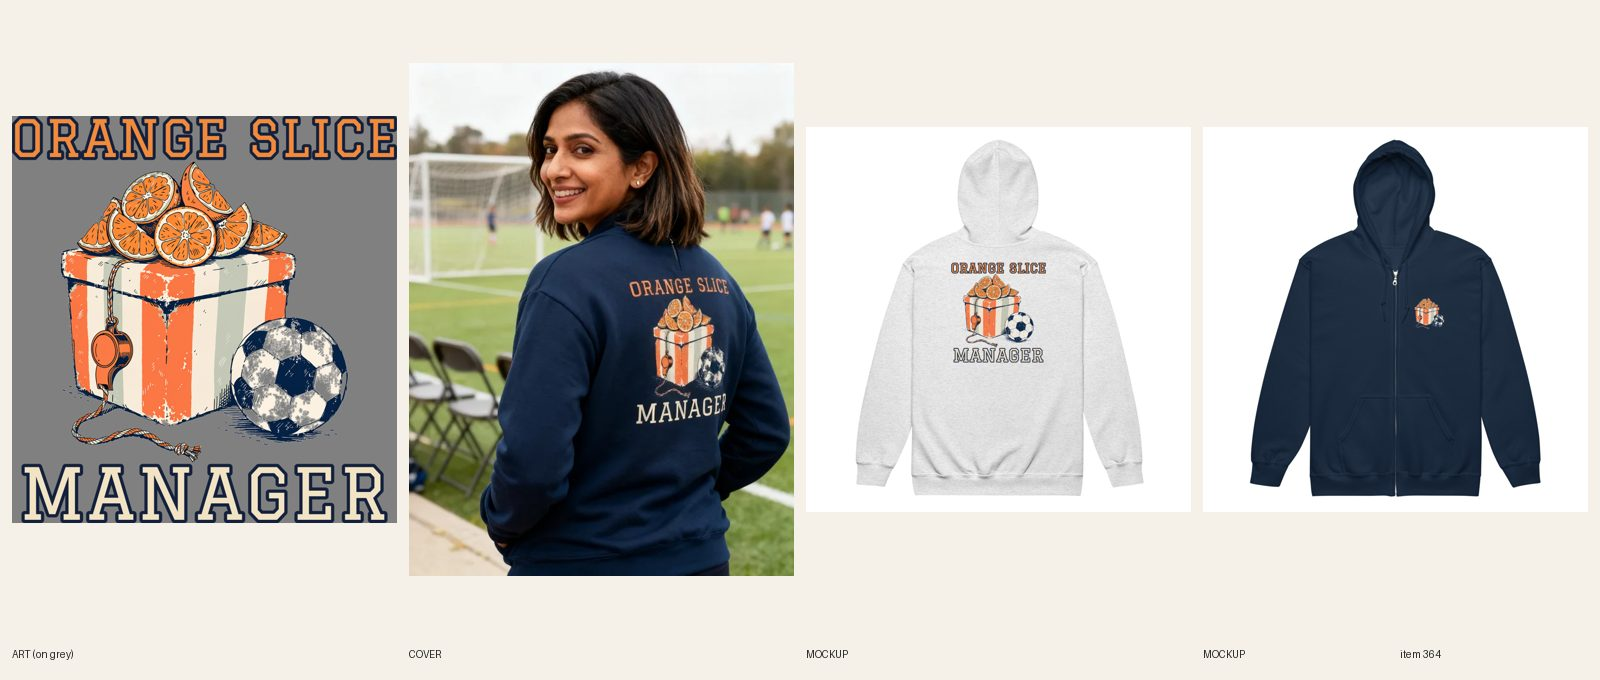
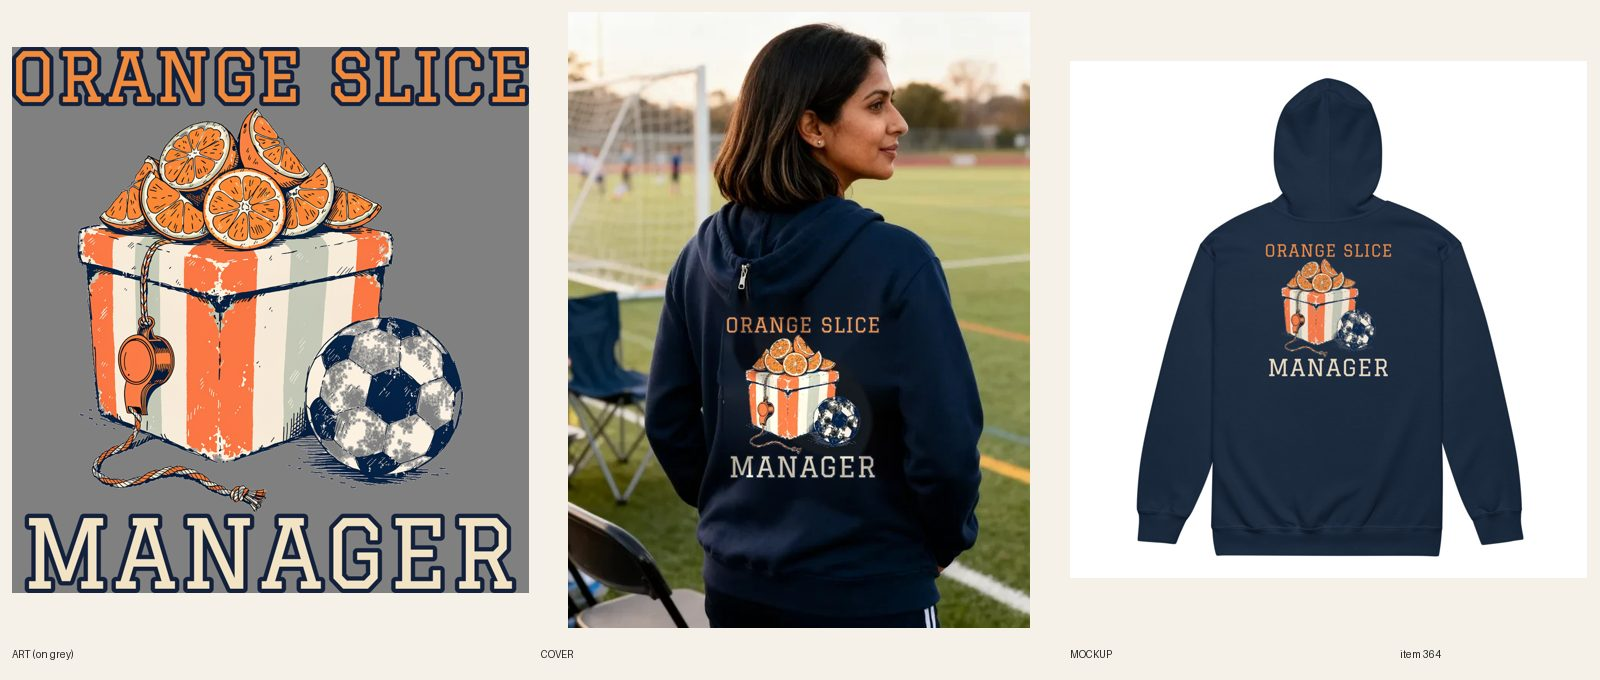
[C] review 364 orange slice manager zip hoodie REDO

diff --git a/docs/pipeline/364-soccer-zip-orange-slice-manager.md b/docs/pipeline/364-soccer-zip-orange-slice-manager.md
@@ -1,4 +1,4 @@
-status: REDO
+status: REVIEW
 lane: C
 type: new
 id: 364
@@ -31,3 +31,4 @@ kd: 36
 - 2026-10-17 22:26 UTC director: REDO.
   1. R6.8 (hoodie cover): the garment has no hood. It reads as a bomber or track jacket, not our zip hoodie, which is the issue you flagged yourself. Make the one extra cover attempt with the Navy back-view mockup as --design and 'navy full-zip hoodie, hood hanging down her back' in the prompt. Keep her and the soccer sideline, and read ORANGE SLICE / MANAGER on the back against the art.
   2. (Withdrawn by the director: "Original art, made for Graphic Tees Co." is the SOP line for ai-art and stays.)
+- 2026-10-18 00:50 UTC builder [C]: REDO 1 done. Extra cover attempt with the Navy back mockup as --design (1 fal image, $0.06): hood now visible, but the model dropped the art (words only, drawcord over the top-left). Composited the exact print from the Printful print file onto her back (R6.9, scripts/cover-composite.py): hood, all words and cooler/ball/whistle readable, no hair or cord over the print; registry #555 unchanged. Navy back mockup added to the product (alt: Navy, back view with the full print). Sheet regenerated.

diff --git a/docs/intake-log.md b/docs/intake-log.md
@@ -1,4 +1,5 @@
 2026-10-18 00:25 UTC — [B] REVIEW #492 Women's Nurse – Embroidered Night Shift Silly Goose Crewneck (DRAFT, synced 12/12, Sand + Sport Grey, navy thread; fal $0.10).
+2026-10-18 00:51 UTC — [C] REVIEW #364 Orange Slice Manager zip hoodie REDO (hood visible, print composited on cover, Navy back mockup added; fal $0.06).
 RUNNING lane C since 2026-10-18 00:30 UTC
 2026-10-18 00:18 UTC — [B] REVIEW #469 Women's Christmas – Embroidered Excused From Small Talk Crewneck (DRAFT, synced 12/12, Sand + Navy, one red thread; fal $0.14).
 2026-10-18 00:56 UTC — [E] REVIEW #472 Per My Last Email embroidered crewneck (fal ~$0.2).
